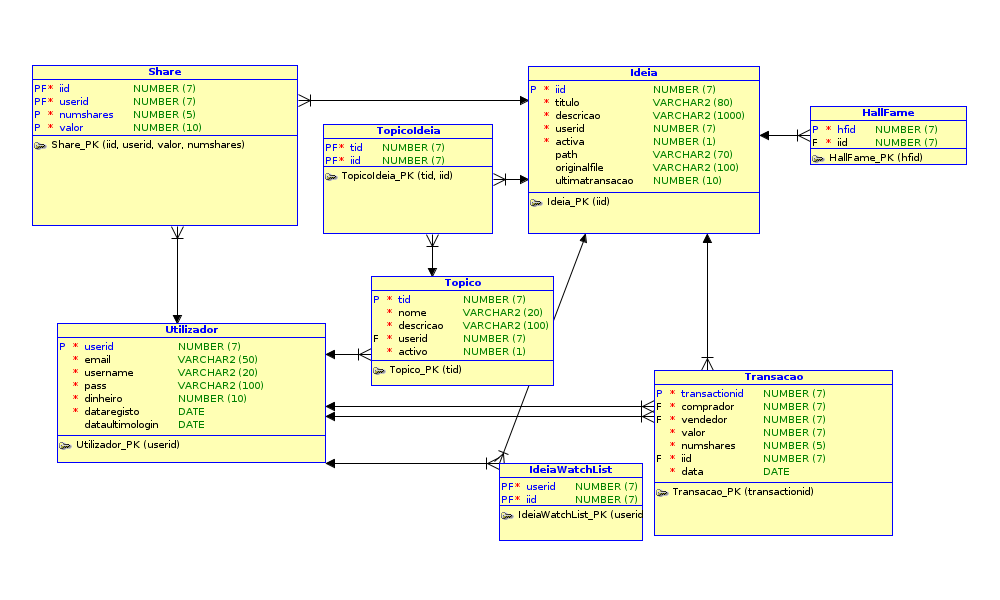
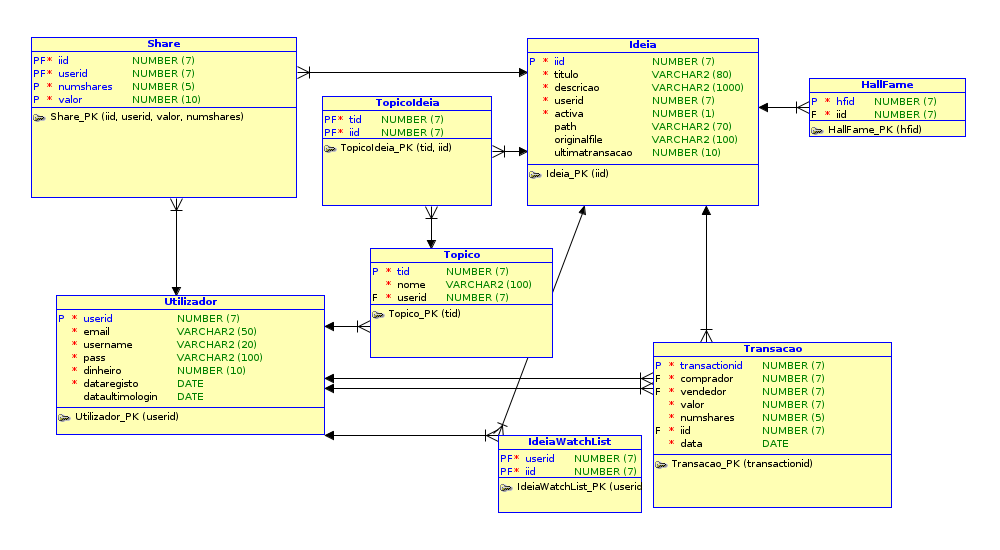
Successfully added beautifull registration and login forms in the jsp files. All thanks to Bruno Caceiro and David Cardoso :)

Changed region(s): [[0.031, 0.0618, 0.992, 0.9582]]

diff --git a/webapp/IdeaBroker/src/main/resources/rmiserver/RMI_Server.java b/webapp/IdeaBroker/src/main/resources/rmiserver/RMI_Server.java
@@ -120,9 +120,9 @@ public class RMI_Server extends UnicastRemoteObject implements RMI_Interface {
     /**
      * This is the same as login, except it doesn't do anything to say we're online. It's meant to be used by the
      * notification server.
-     * @param user
-     * @param pwd
-     * @return
+     * @param user  The User's username
+     * @param pwd   The User's password
+     * @return  Returns the User's id in case of success, or -1 if an error occurred.
      * @throws RemoteException
      */
     public int canLogin(String user, String pwd) throws  RemoteException {
@@ -424,19 +424,17 @@ public class RMI_Server extends UnicastRemoteObject implements RMI_Interface {
     /**
      * Method responsible for creating a new topic in the database
      * @param name  The name of the topic
-     * @param description The description of the topic
      * @param uid   The id of the user who created the topic
      * @return  A boolean value, indicating the success or failure of the operation
      * @throws RemoteException
      */
-    synchronized public boolean createTopic(String name, String description, int uid) throws  RemoteException{
+    synchronized public boolean createTopic(String name, int uid) throws  RemoteException{
         if (! validateTopic(name)){
             System.err.println("Topico invalido");
             return false;
         }
 
-        String query = "INSERT INTO Topico VALUES (topic_seq.nextval,'" + name + "','" + description + "'," +
-                "" + uid + ")";
+        String query = "INSERT INTO Topico VALUES (topic_seq.nextval,'" + name + "'," + uid + ")";
 
         insertData(query);
         return true;
@@ -1155,7 +1153,7 @@ public class RMI_Server extends UnicastRemoteObject implements RMI_Interface {
         //  There is no topic with the given title, so let's create it
         ////
         if (topics.isEmpty()){
-            createTopic(topicTitle,("Topic created by user " + uid),uid);
+            createTopic(topicTitle,uid);
 
             //Add the number of the topic to the ArrayList
             query = "Select t.tid from Topico t where t.nome='" + topicTitle + "'";
@@ -1374,11 +1372,12 @@ public class RMI_Server extends UnicastRemoteObject implements RMI_Interface {
             connectionPool.returnConnection(conn);
     }
 
-    ////
-    //  This method will be responsible for executing a query like "Insert ...". With this method we can create new registries in the
-    //  database's tables
-    //
-    ////
+    /**
+     * This method will be responsible for executing a query like "Insert ...". With this method we can create new
+     * registries in the database's tables
+     * @param query The query we want to execute in the database
+     * @param conn  The connection to the database
+     */
     private void insertData(String query, Connection conn) {
         System.out.println("\n-------------------------------\nRunning inseeeeeert query: "+query);
         boolean cont;

diff --git a/webapp/IdeaBroker/src/main/resources/model/data/Topic.java b/webapp/IdeaBroker/src/main/resources/model/data/Topic.java
@@ -8,7 +8,6 @@ import java.io.Serializable;
 public class Topic implements Serializable{
     protected int   id;
     protected String title;
-    protected String body;
 
     private static final long serialVersionUID = 1L;
 
@@ -17,18 +16,16 @@ public class Topic implements Serializable{
         return "Topic{" +
                 "id=" + id +
                 ", title='" + title + '\'' +
-                ", body='" + body + '\'' +
                 '}';
     }
 
     public Topic() {
         this.id = 0;
-        this.title = this.body = null;
+        this.title = null;
     }
-    public Topic(int id, String title, String body) {
+    public Topic(int id, String title) {
         this.id = id;
         this.title = title;
-        this.body = body;
     }
 
     public int getId(){

diff --git a/webapp/IdeaBroker/src/main/resources/model/RMI/RMI_Interface.java b/webapp/IdeaBroker/src/main/resources/model/RMI/RMI_Interface.java
@@ -15,7 +15,7 @@ public interface RMI_Interface extends Remote {
     public int canLogin(String user, String pwd) throws  RemoteException;
     public boolean register(String user, String pass, String email) throws RemoteException;
     public ServerTopic[] getTopics() throws RemoteException;
-    public boolean createTopic(String nome, String descricao, int uid) throws  RemoteException;
+    public boolean createTopic(String nome, int uid) throws  RemoteException;
     public Idea[] getIdeasFromTopic(int tid) throws RemoteException;
     public Idea[] getIdeasFromUser(int uid) throws RemoteException;
     public int removeIdea(Idea idea, int uid) throws  RemoteException;

diff --git a/webapp/IdeaBroker/src/main/resources/model/data/ServerTopic.java b/webapp/IdeaBroker/src/main/resources/model/data/ServerTopic.java
@@ -1,7 +1,6 @@
 package model.data;
 
 import common.util.Common;
-
 import java.io.DataOutputStream;
 
 ////
@@ -16,8 +15,6 @@ public class ServerTopic extends Topic {
             return false;
         if ( ! Common.sendString(title, out) )
             return false;
-        if ( ! Common.sendString(body, out) )
-            return false;
 
         return true;
     }
@@ -28,6 +25,5 @@ public class ServerTopic extends Topic {
     public ServerTopic(String[] line) {
         this.id = Integer.valueOf(line[0]);
         this.title = line[1];
-        this.body = line[2];
     }
 }
